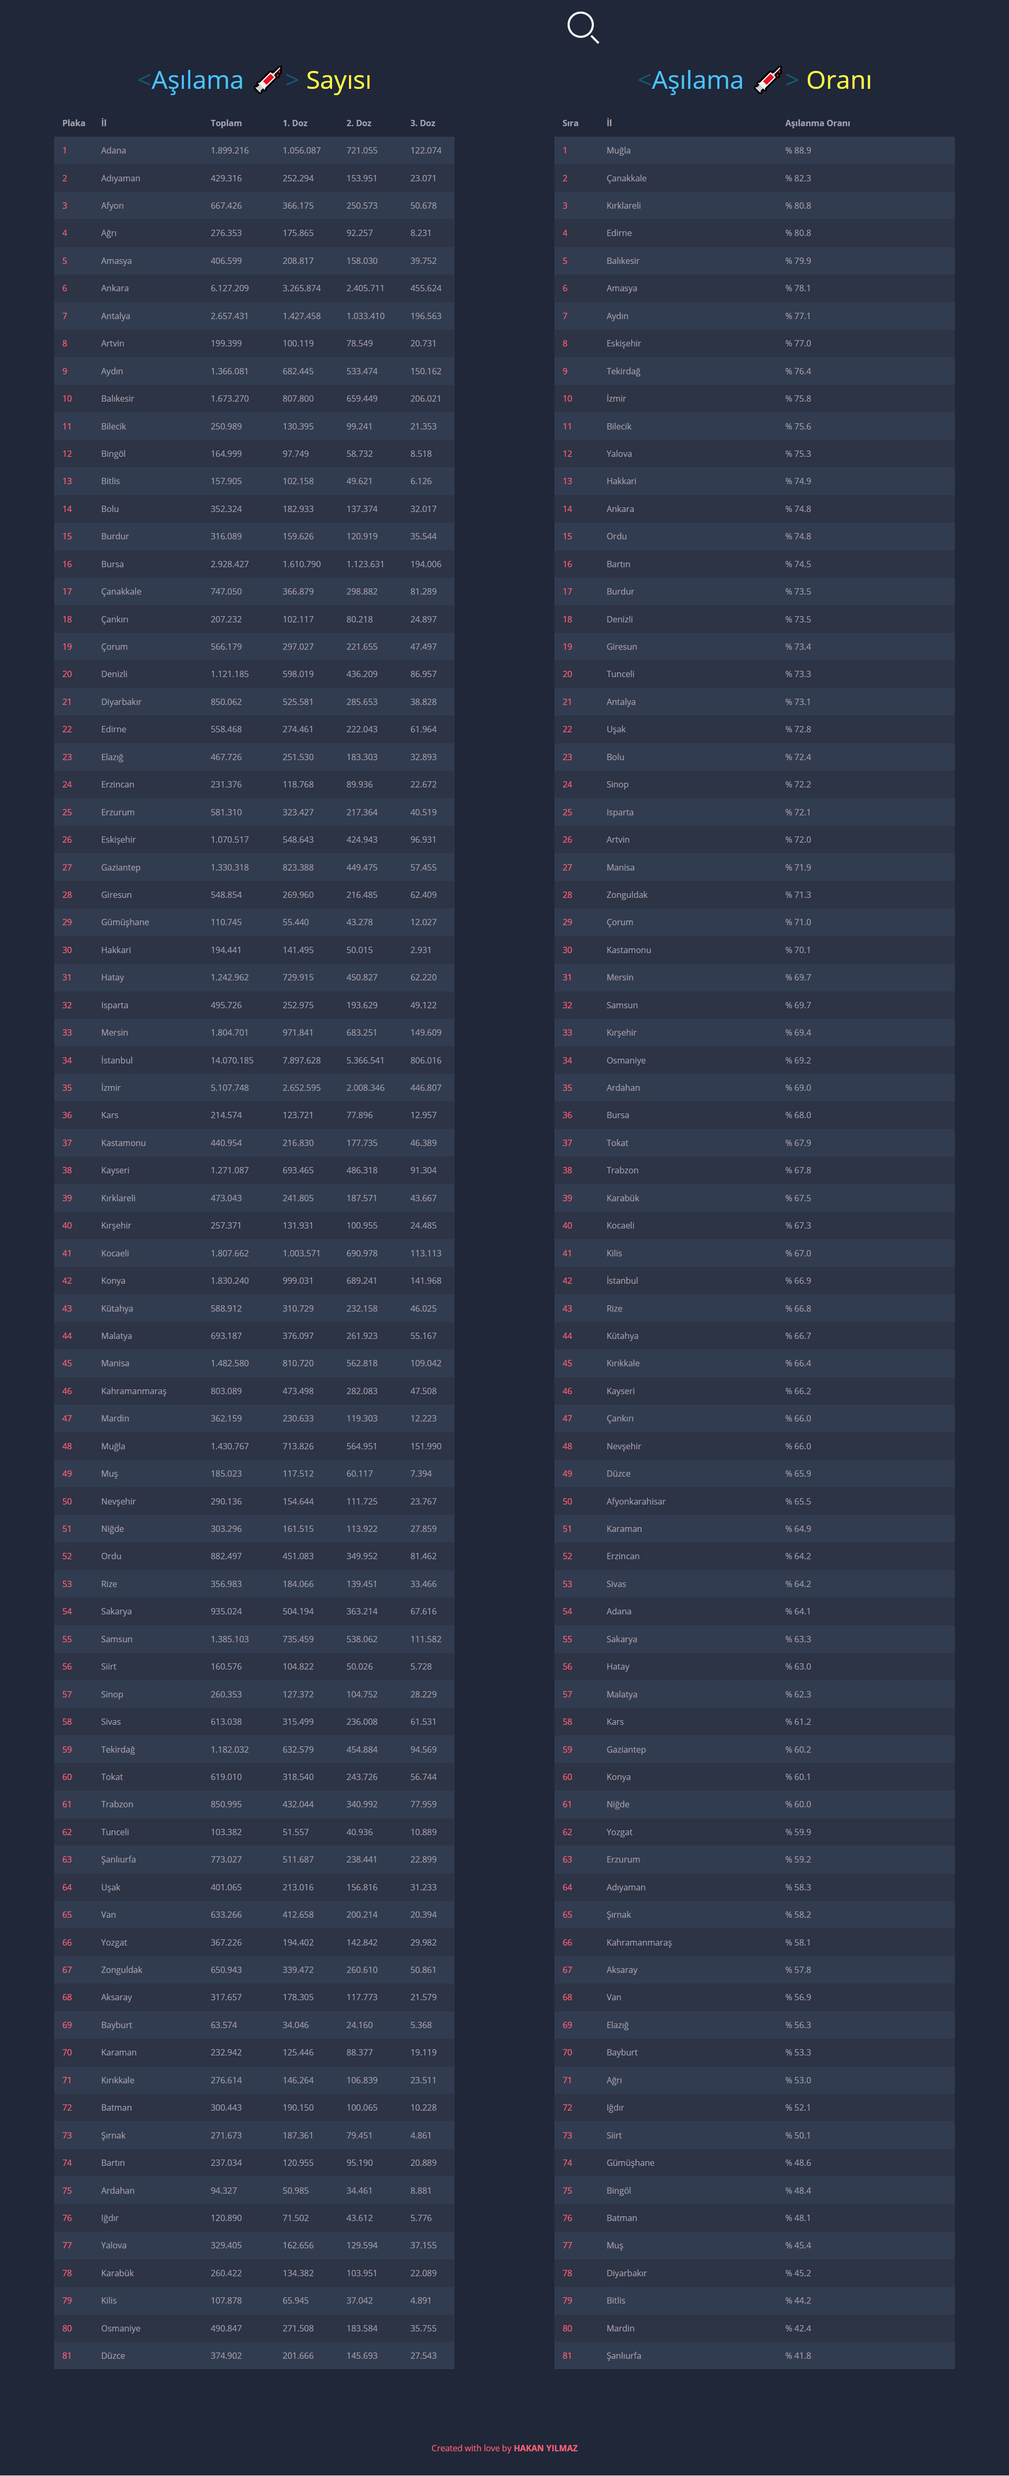
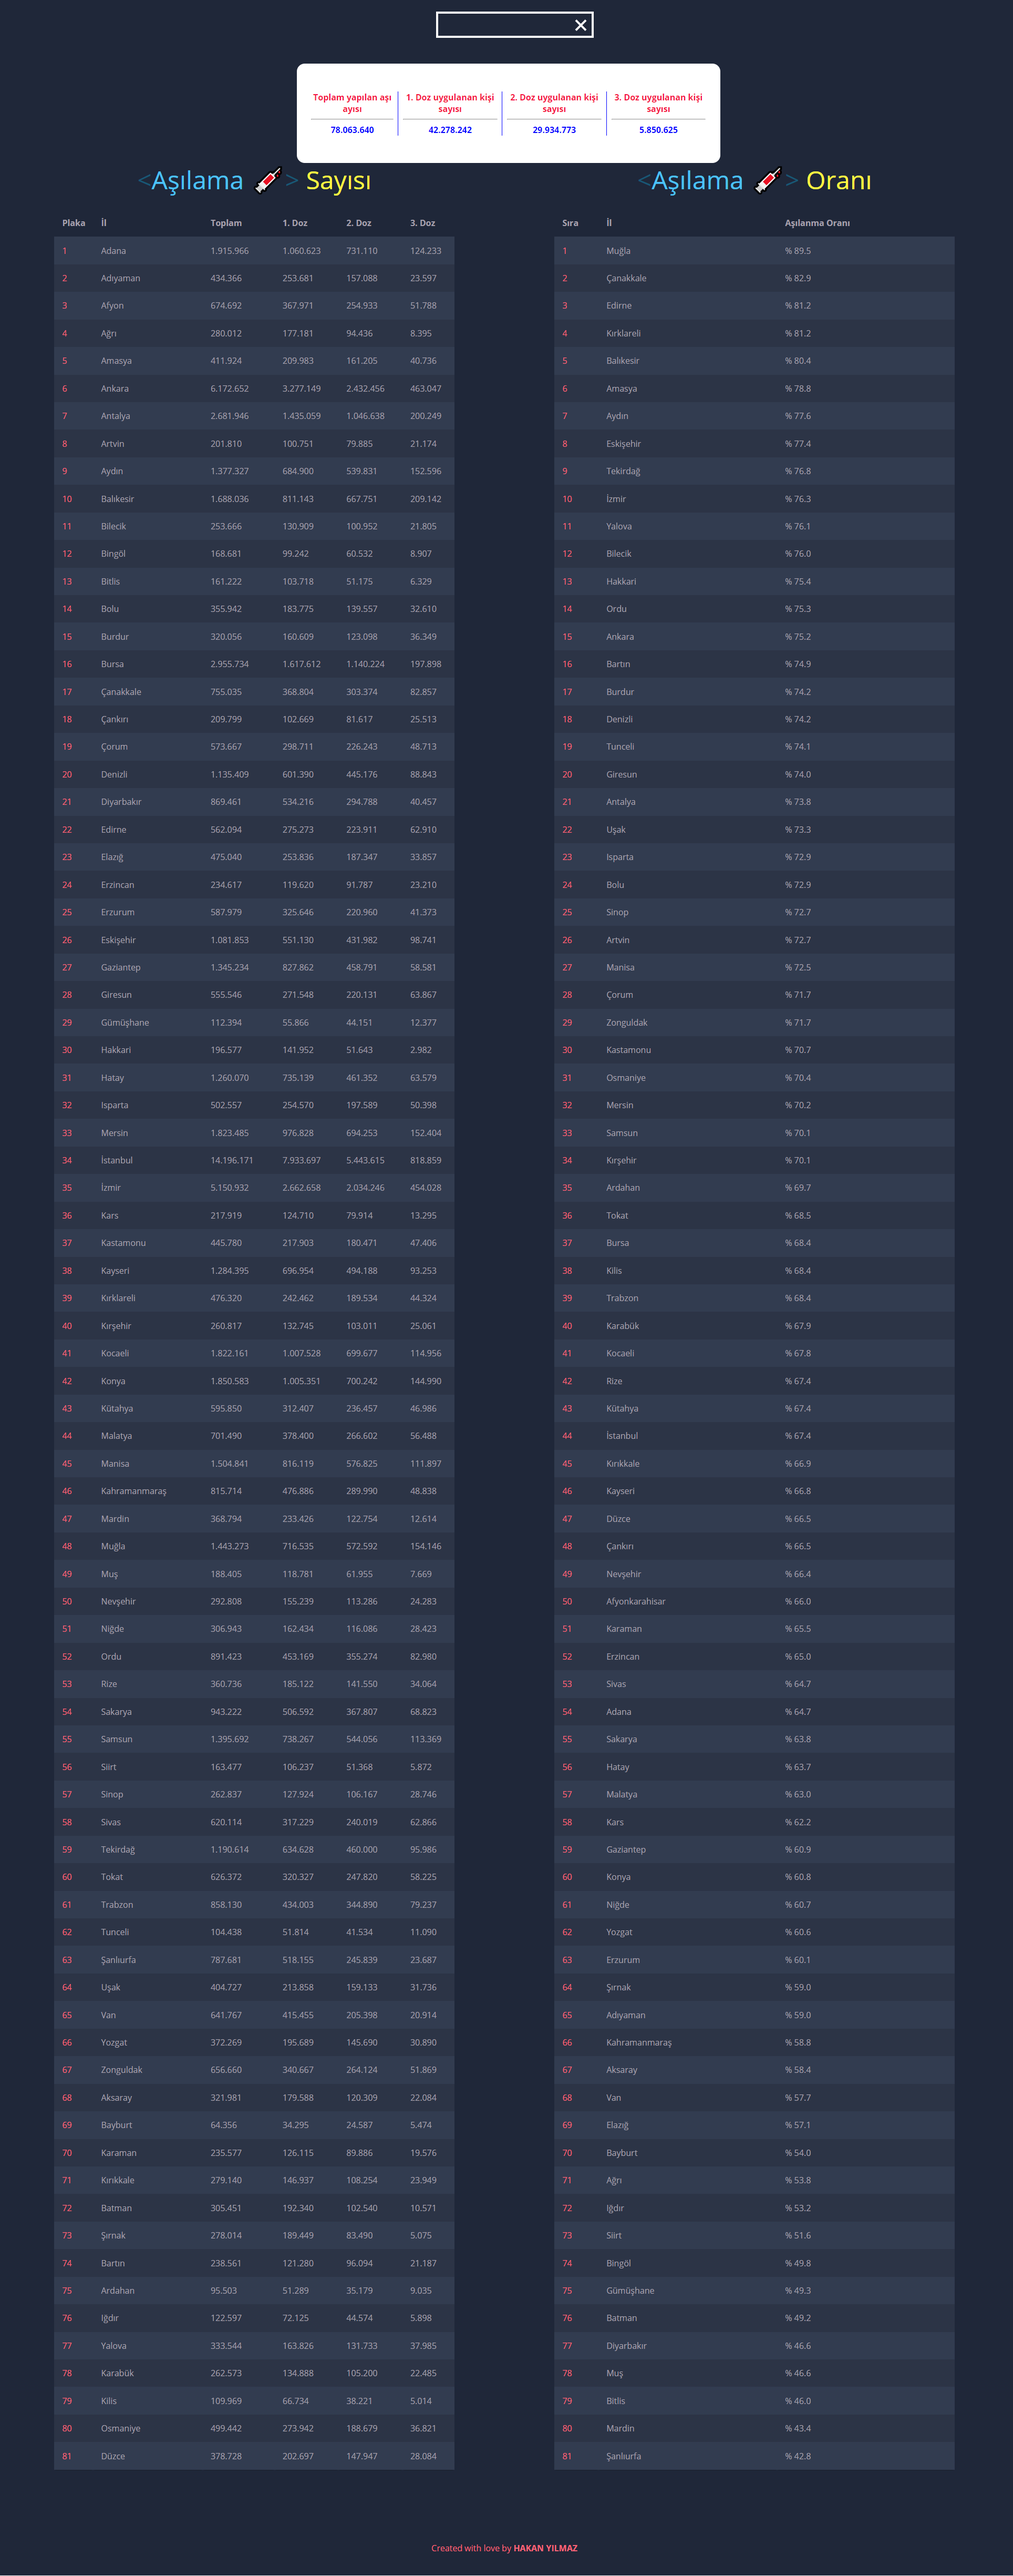
Design changes

Changed region(s): [[0.1562, 0.0, 0.7188, 0.9675], [0.75, 0.0312, 0.8438, 0.9675], [0.0938, 0.0936, 0.125, 0.9675]]

diff --git a/index.html b/index.html
@@ -11,7 +11,7 @@
     <link rel="stylesheet" href="./sort.css">
     <link rel="stylesheet" href="https://use.fontawesome.com/releases/v5.3.1/css/all.css"
         integrity="sha384-mzrmE5qonljUremFsqc01SB46JvROS7bZs3IO2EmfFsd15uHvIt+Y8vEf7N7fWAU" crossorigin="anonymous">
-        <link rel="stylesheet" href="https://maxcdn.bootstrapcdn.com/font-awesome/4.5.0/css/font-awesome.min.css">
+    <link rel="stylesheet" href="https://maxcdn.bootstrapcdn.com/font-awesome/4.5.0/css/font-awesome.min.css">
     <title>Asilandik.me</title>
 </head>
 
@@ -23,8 +23,33 @@
                 onfocus="this.placeholder = 'Sehir Ara'" onblur="this.placeholder = ''">
             <button type="reset" class="search" id="search-btn"></button>
         </form>
+        <div class="text">
+            <div class="veri">
+                <div style="flex-direction: column;border-right: 1px solid blue;">
+                    <span style="color:rgb(245, 17, 66);font-weight:bold">Toplam yapılan aşı ayısı</span>
+                    <hr style="width: 90%;">
+                    <span id="toplam" style="color:blue;font-weight:bold"></span>
+                </div>
+                <div style="flex-direction: column;border-right: 1px solid blue;">
+                    <span style="color:rgb(245, 17, 66);font-weight:bold">1. Doz uygulanan kişi sayısı</span>
+                    <hr style="width: 90%;">
+                    <span id="fdoz" style="color:blue;font-weight:bold"></span>
+                </div>
+                <div style="flex-direction: column;border-right: 1px solid blue;">
+                    <span style="color:rgb(245, 17, 66);font-weight:bold">2. Doz uygulanan kişi sayısı</span>
+                    <hr style="width: 90%;">
+                    <span id="sdoz" style="color:blue;font-weight:bold"></span>
+                </div>
+                <div style="flex-direction: column;">
+                    <span style="color:rgb(245, 17, 66);font-weight:bold">3. Doz uygulanan kişi sayısı</span>
+                    <hr style="width: 90%;">
+                    <span id="tdoz" style="color:blue;font-weight:bold"></span>
+                </div>
 
-        <div style="display: flex;flex-direction: row;width: 100%;margin-top: 5%;">
+            </div>
+
+        </div>
+        <div style="display: flex;flex-direction: row;width: 100%;margin-top: 15%;">
             <div class="left">
                 <h1><span class="blue">&lt;</span>Aşılama 💉<span class="blue">&gt;</span> <span class="yellow">Sayısı
                         </pan>
@@ -94,17 +119,19 @@
     searchBtn.addEventListener("click", expand);
     var btn = $('#button');
 
-    $(window).scroll(function() {
-    if ($(window).scrollTop() > 300) {
-        btn.addClass('show');
-    } else {
-        btn.removeClass('show');
-    }
+    $(window).scroll(function () {
+        if ($(window).scrollTop() > 300) {
+            btn.addClass('show');
+        } else {
+            btn.removeClass('show');
+        }
     });
 
-    btn.on('click', function(e) {
-    e.preventDefault();
-    $('html, body').animate({scrollTop:0}, '300');
+    btn.on('click', function (e) {
+        e.preventDefault();
+        $('html, body').animate({
+            scrollTop: 0
+        }, '300');
     });
 </script>
 

diff --git a/asi.js b/asi.js
@@ -1,4 +1,7 @@
-fetch('https://cors-anywhere.herokuapp.com/https://covid19asi.saglik.gov.tr').then(function (response) {
+fetch('https://cors.bridged.cc/https://covid19asi.saglik.gov.tr' , {
+    method: "GET",
+    credentials: "same-origin"
+}).then(function (response) {
 	return response.text();
 }).then(function (html) {
 	var parser = new DOMParser();
@@ -12,8 +15,17 @@ fetch('https://cors-anywhere.herokuapp.com/https://covid19asi.saglik.gov.tr').th
     var ikinci = [...veri].map(m=>m.dataset.ikinciDoz);
     var toplam = [...veri].map(m=>m.dataset.toplam);
     var tr;
-    
+    GenelToplam=0;
+    fdoz=0;
+    sdoz=0;
+    tdoz=0;
+    console.log(JsonData)
         for (var i = 1; i < 82; i++) {
+            GenelToplam=Number(JsonData[i].toplam.split('.').join(''))+GenelToplam;
+            fdoz = Number(JsonData[i].birinciDoz.split('.').join(''))+fdoz;
+            sdoz = Number(JsonData[i].ikinciDoz.split('.').join(''))+sdoz;
+            tdoz = (Number(JsonData[i].toplam.split('.').join('')) - Number(JsonData[i].birinciDoz.split('.').join('')) - Number(JsonData[i].ikinciDoz.split('.').join(''))) + tdoz;
+
             tr = $('<tr/>');
             tr.append("<td>" + i + "</td>");
             tr.append("<td>" + JsonData[i].adi + "</td>");
@@ -24,6 +36,11 @@ fetch('https://cors-anywhere.herokuapp.com/https://covid19asi.saglik.gov.tr').th
             tr.append("<td>" + ((Number(JsonData[i].toplam.split('.').join('')) - Number(JsonData[i].birinciDoz.split('.').join('')) - Number(JsonData[i].ikinciDoz.split('.').join(''))).toString().replace(/(\d)(?=(\d{3})+(?!\d))/g, '$1.')) + "</td>");
             $('#myTable').append(tr);
         }
+
+            document.getElementById("toplam").innerText = GenelToplam.toString().replace(/(\d)(?=(\d{3})+(?!\d))/g, '$1.');
+            document.getElementById("fdoz").innerText = fdoz.toString().replace(/(\d)(?=(\d{3})+(?!\d))/g, '$1.');
+            document.getElementById("sdoz").innerText = sdoz.toString().replace(/(\d)(?=(\d{3})+(?!\d))/g, '$1.');
+            document.getElementById("tdoz").innerText = tdoz.toString().replace(/(\d)(?=(\d{3})+(?!\d))/g, '$1.');
 
         var count=1;
         for (var i = 83; i < 164; i++) {

diff --git a/sort.css b/sort.css
@@ -254,39 +254,60 @@ input {
   transform: translate(-100%, -50%);
 }
 #button {
-    display: inline-block;
-    background-color: #FF9800;
-    width: 50px;
-    height: 50px;
-    text-align: center;
-    border-radius: 4px;
-    position: fixed;
-    bottom: 30px;
-    right: 30px;
-    transition: background-color .3s, 
-      opacity .5s, visibility .5s;
-    opacity: 0;
-    visibility: hidden;
-    z-index: 1000;
-  }
-  #button::after {
-    content: "\f077";
-    font-family: FontAwesome;
-    font-weight: normal;
-    font-style: normal;
-    font-size: 2em;
-    line-height: 50px;
-    color: #fff;
-  }
-  #button:hover {
-    cursor: pointer;
-    background-color: #333;
-  }
-  #button:active {
-    background-color: #555;
-  }
-  #button.show {
-    opacity: 1;
-    visibility: visible;
-  }
- 
+  display: inline-block;
+  background-color: #ff9800;
+  width: 50px;
+  height: 50px;
+  text-align: center;
+  border-radius: 4px;
+  position: fixed;
+  bottom: 30px;
+  right: 30px;
+  transition: background-color 0.3s, opacity 0.5s, visibility 0.5s;
+  opacity: 0;
+  visibility: hidden;
+  z-index: 1000;
+}
+#button::after {
+  content: "\f077";
+  font-family: FontAwesome;
+  font-weight: normal;
+  font-style: normal;
+  font-size: 2em;
+  line-height: 50px;
+  color: #fff;
+}
+#button:hover {
+  cursor: pointer;
+  background-color: #333;
+}
+#button:active {
+  background-color: #555;
+}
+#button.show {
+  opacity: 1;
+  visibility: visible;
+}
+.text {
+  display: flex;
+  position: absolute;
+  width: 100%;
+  height: 150px;
+  align-items: center;
+  justify-content: center;
+  text-align: center;
+  top: 15%;
+}
+.veri {
+  padding: 1%;
+  flex-direction: row;
+  background-color: white;
+  display: flex;
+  position: absolute;
+  width: 40%;
+  height: 150px;
+  align-items: center;
+  justify-content: center;
+  text-align: center;
+  border-radius: 15px;
+}
